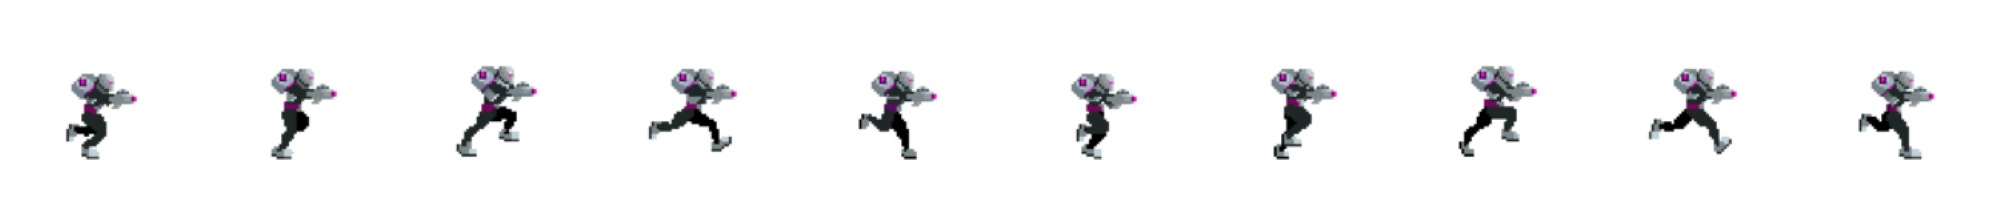
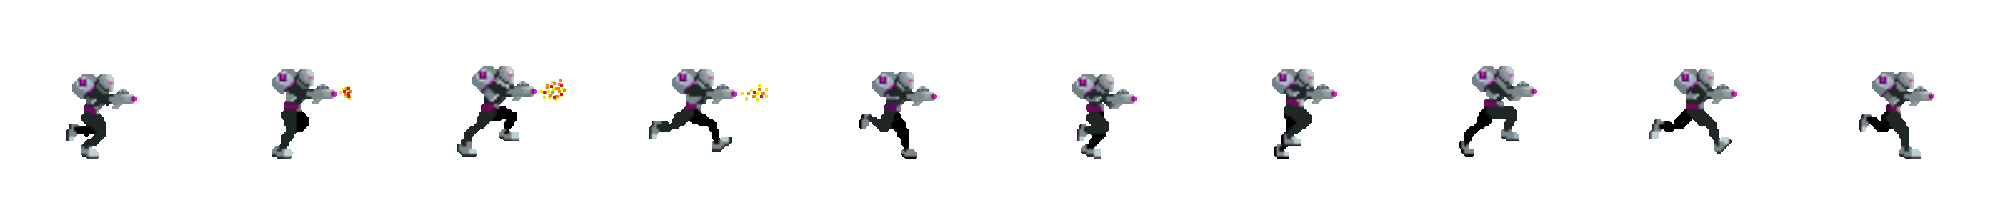
Changement d'ajd

diff --git a/Shoot's em up - Zaun/main.cpp b/Shoot's em up - Zaun/main.cpp
@@ -42,7 +42,7 @@ int mainGame() {
     auto S_startTime = chrono::steady_clock::now();
     auto S_waitTime = chrono::milliseconds(90);
     auto S_startAttTime = chrono::steady_clock::now();
-    auto S_waitAttTime = chrono::milliseconds(50);
+    auto S_waitAttTime = chrono::milliseconds(800);
     auto S_startReadyToAttackTime = chrono::steady_clock::now();
     auto S_waitReadyToAttackTime = chrono::seconds(1);
 
@@ -155,8 +155,21 @@ int mainGame() {
         //Soldier_Class.soldierDontExitFromScreen();
 
         auto S_nowTime = chrono::steady_clock::now();
+
         if (S_nowTime >= S_startTime + S_waitTime) {
             Soldier_Class.soldier_anim.x++;
+            Soldier_Class.soldier_S.countAnimAtk++;
+            if (Soldier_Class.soldier_S.countAnimAtk == 2) {
+                Soldier_Class.SoldierBullets.push_back(sf::CircleShape());
+                Soldier_Class.SoldierBullets.back().setFillColor(sf::Color::Red);
+                Soldier_Class.SoldierBullets.back().setRadius(10);
+                Soldier_Class.SoldierBullets.back().setPosition(Soldier_Class.soldier_walk_sprite.getPosition().x, Soldier_Class.soldier_walk_sprite.getPosition().y + 80);
+            }
+
+            if (Soldier_Class.soldier_S.countAnimAtk == 10) {
+                Soldier_Class.soldier_S.countAnimAtk = 0;
+            }
+
             if (Soldier_Class.soldier_anim.x * 200 >= Soldier_Class.soldier_walk_texture.getSize().x + 200) // boucle qui permet de revenir a la premiere slide de l'anim
                 Soldier_Class.soldier_anim.x = 2;
             S_startTime = S_nowTime;
@@ -164,9 +177,16 @@ int mainGame() {
 
         Soldier_Class.soldierPrintWindow(game.window);
 
+        for (int i = 0; i < Soldier_Class.SoldierBullets.size(); i++) {
+            Soldier_Class.SoldierBullets[i].move(-30, 0);
+            game.window.draw(Soldier_Class.SoldierBullets[i]);
+             /*Soldier_Class.soldier_Bullet_Auto_Attack_sprite.setPosition(Soldier_Class.SoldierBullets[i].getPosition().x - 30, Soldier_Class.SoldierBullets[i].getPosition().y - 6);
+             game.window.draw(Soldier_Class.soldier_Bullet_Auto_Attack_sprite);
+             Soldier_Class.soldier_Bullet_Auto_Attack_sprite.move(-30, 0);*/
+        }
+
         game.window.display();
     }
-
     return 0;
 }
 

diff --git a/Shoot's em up - Zaun/Class_Enemies.hpp b/Shoot's em up - Zaun/Class_Enemies.hpp
@@ -39,7 +39,7 @@ public:
 
 	struct Soldier_S {
 		bool isAttacking = false;
-		bool anim_isAttacking = true;
+		bool anim_isAttacking = false;
 		bool isHealing = false;
 		bool isHit = false;
 		bool anim_isHit = false;
@@ -103,18 +103,13 @@ public:
 	sf::Sprite soldier_walk_sprite;
 	sf::Vector2i soldier_anim;
 
-
-	/*sf::Texture ekko_Attack_texture;
-	sf::Sprite ekko_Attack_sprite;
-	sf::Vector2i ekko_anim_Attack;*/
-
-	/*sf::Texture soldier_Auto_Attack_texture;
+	sf::Texture soldier_Auto_Attack_texture;
 	sf::Sprite soldier_Auto_Attack_sprite;
 	sf::Vector2i soldier_anim_Auto_Attack;
 
 	sf::Texture soldier_Bullet_Auto_Attack_texture;
 	sf::Sprite soldier_Bullet_Auto_Attack_sprite;
-	sf::Vector2i soldier_anim_Bullet_Auto_Attack;*/
+	sf::Vector2i soldier_anim_Bullet_Auto_Attack;
 
 	vector<sf::CircleShape> SoldierBullets;
 

diff --git a/Shoot's em up - Zaun/Class_Enemies.cpp b/Shoot's em up - Zaun/Class_Enemies.cpp
@@ -168,11 +168,9 @@ void Soldier::soldierBulletInit() {
 }
 
 void Soldier::soldierPrintWindow(sf::RenderWindow& window) {
-	if (soldier_S.anim_isAttacking) {
-			soldier_walk_sprite.setTextureRect(sf::IntRect(soldier_anim.x * 200, 0, -200, 200));
-			window.draw(soldier_walk_sprite);
-		//////////////////////////////
-	}
+	soldier_walk_sprite.setTextureRect(sf::IntRect(soldier_anim.x * 200, 0, -200, 200));
+	window.draw(soldier_walk_sprite);
+	//////////////////////////////
 
 	/*if (ekko_S.ekko_anim_isAttacking) {
 		if (ekko_anim_Auto_Attack.x * 128 >= ekko_Auto_Attack_texture.getSize().x)
